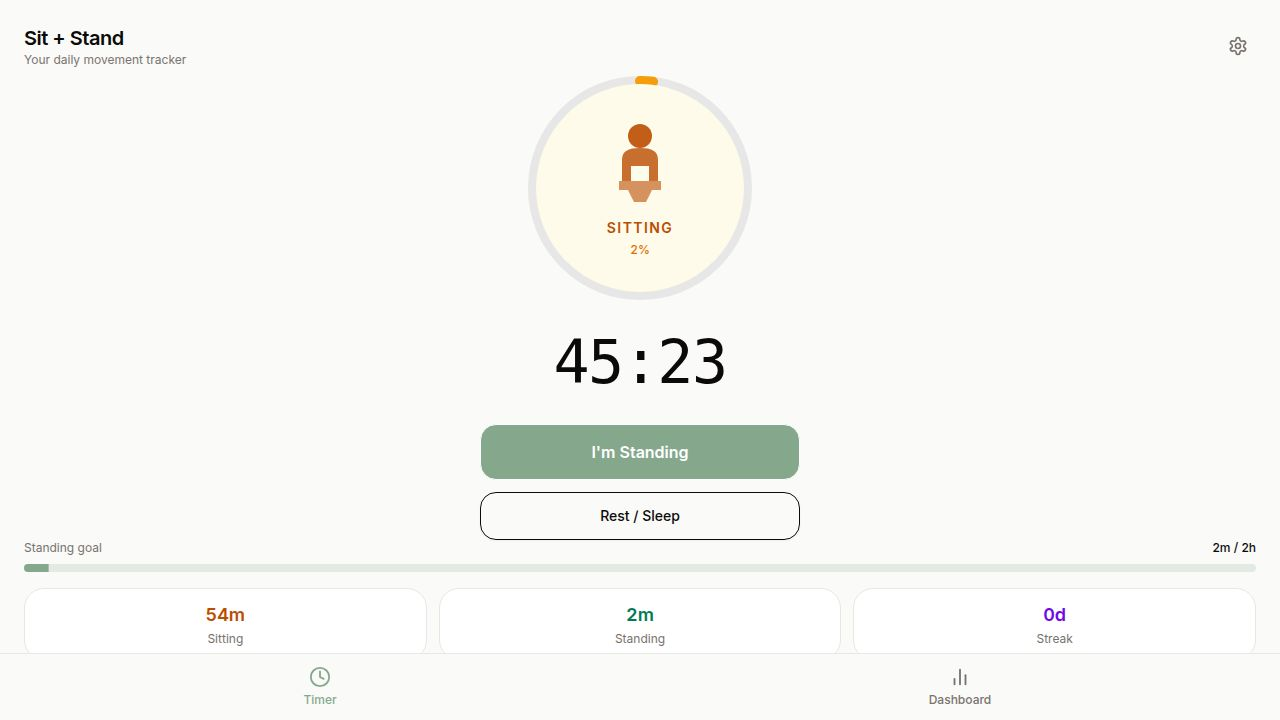
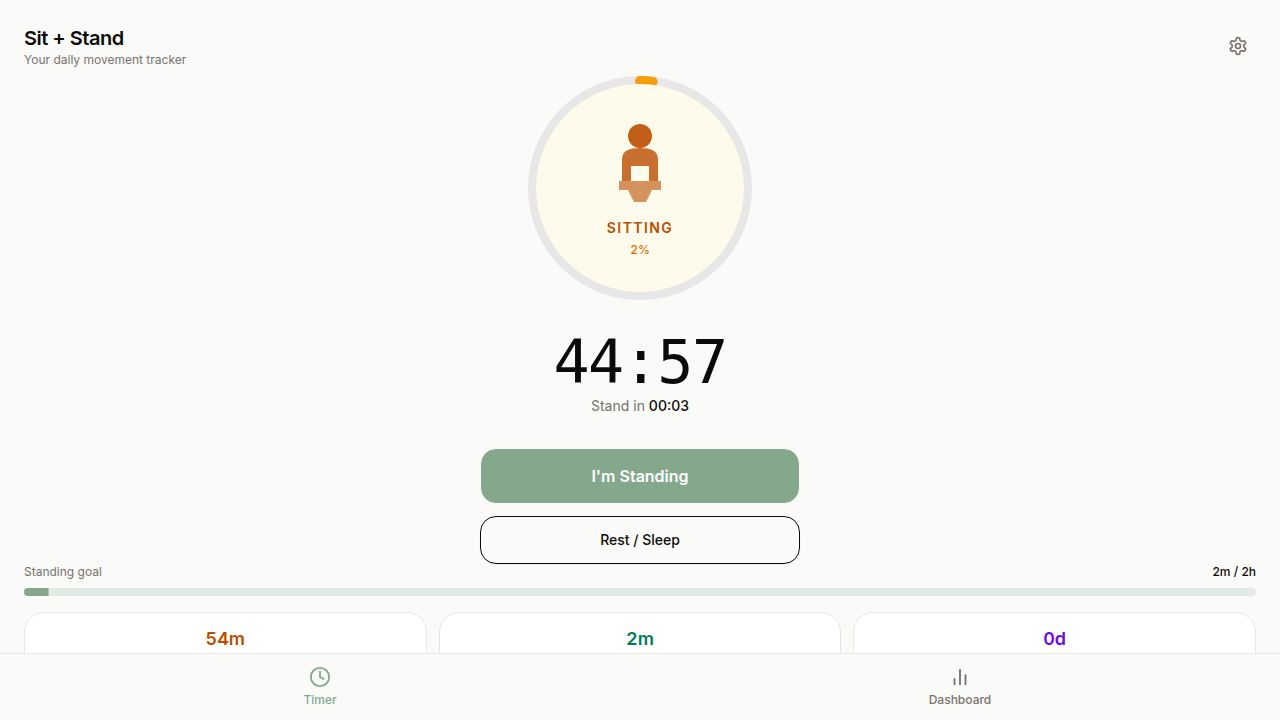
feat: show preview modal before sharing/downloading summary card (task #9)
## Summary
Clicking "Share week" on the Overview dashboard tab now opens a modal
preview of the summary card image before any sharing or downloading occurs.

## Changes
- `artifacts/sit-stand-timer/src/pages/DashboardPage.tsx`
  - Imported Dialog, DialogContent, DialogHeader, DialogTitle, DialogFooter
    from the existing @user/react-dialog based UI component
  - Split the old `handleShare` into two phases:
    1. `handleOpenPreview`: captures the offscreen ShareCard via html2canvas,
       stores the resulting Blob + object URL in state, and opens the modal
    2. `handleShare`: proceeds with native share (Web Share API) or fallback
       download using the already-captured Blob, then closes the modal
  - Added state: `previewing`, `previewOpen`, `previewImgUrl`, `previewBlob`
  - Added `handleClosePreview` to revoke the object URL and reset state
  - "Share week" button now calls `handleOpenPreview`; its label shows
    "Generating…" while the canvas capture is in progress
  - Preview Dialog renders the captured card as an <img> (correct aspect
    ratio, max-height 65vh for mobile readability)
  - Dialog footer has Cancel and Share/Download buttons; Share/Download
    label adapts based on Web Share API availability

## Testing
Automated Playwright e2e test confirmed:
- "Share week" opens the modal with title "Summary card preview"
- Preview image is visible inside the modal
- Cancel and Download buttons are present
[…]

Changed region(s): [[0.0, 0.7333, 1.0, 0.9167], [0.375, 0.4583, 0.625, 0.7639]]

diff --git a/artifacts/sit-stand-timer/src/pages/DashboardPage.tsx b/artifacts/sit-stand-timer/src/pages/DashboardPage.tsx
@@ -19,6 +19,13 @@ import {
 } from "@workspace/api-client-react";
 import { Skeleton } from "@/components/ui/skeleton";
 import { Button } from "@/components/ui/button";
+import {
+  Dialog,
+  DialogContent,
+  DialogHeader,
+  DialogTitle,
+  DialogFooter,
+} from "@/components/ui/dialog";
 import { useToast } from "@/hooks/use-toast";
 import html2canvas from "html2canvas";
 
@@ -292,7 +299,11 @@ function ShareCard({
 // ─── Overview tab ───────────────────────────────────────────────────────────
 function OverviewTab() {
   const { data: summary, isLoading: sumLoading } = useGetMetricsSummary();
+  const [previewing, setPreviewing] = useState(false);
   const [sharing, setSharing] = useState(false);
+  const [previewImgUrl, setPreviewImgUrl] = useState<string | null>(null);
+  const [previewBlob, setPreviewBlob] = useState<Blob | null>(null);
+  const [previewOpen, setPreviewOpen] = useState(false);
   const cardRef = useRef<HTMLDivElement>(null);
   const { toast } = useToast();
 
@@ -302,9 +313,9 @@ function OverviewTab() {
     { from: weekStart, to: weekEnd },
   );
 
-  const handleShare = useCallback(async () => {
+  const handleOpenPreview = useCallback(async () => {
     if (!cardRef.current) return;
-    setSharing(true);
+    setPreviewing(true);
     try {
       const canvas = await html2canvas(cardRef.current, {
         backgroundColor: null,
@@ -318,8 +329,35 @@ function OverviewTab() {
           else reject(new Error("Failed to create blob"));
         }, "image/png");
       });
+      const url = URL.createObjectURL(blob);
+      setPreviewBlob(blob);
+      setPreviewImgUrl(url);
+      setPreviewOpen(true);
+    } catch {
+      toast({
+        title: "Could not generate preview",
+        description: "Please try again.",
+        variant: "destructive",
+      });
+    } finally {
+      setPreviewing(false);
+    }
+  }, [toast]);
 
-      const file = new File([blob], "weekly-summary.png", { type: "image/png" });
+  const handleClosePreview = useCallback(() => {
+    setPreviewOpen(false);
+    if (previewImgUrl) {
+      URL.revokeObjectURL(previewImgUrl);
+      setPreviewImgUrl(null);
+    }
+    setPreviewBlob(null);
+  }, [previewImgUrl]);
+
+  const handleShare = useCallback(async () => {
+    if (!previewBlob) return;
+    setSharing(true);
+    try {
+      const file = new File([previewBlob], "weekly-summary.png", { type: "image/png" });
       const canFileShare =
         typeof navigator.share === "function" &&
         typeof navigator.canShare === "function" &&
@@ -331,17 +369,18 @@ function OverviewTab() {
           files: [file],
         });
       } else {
-        const url = URL.createObjectURL(blob);
+        const url = URL.createObjectURL(previewBlob);
         const a = document.createElement("a");
         a.href = url;
         a.download = "weekly-summary.png";
         a.click();
         setTimeout(() => URL.revokeObjectURL(url), 60_000);
       }
+      handleClosePreview();
     } catch (err) {
       if (err instanceof Error && err.name !== "AbortError") {
         toast({
-          title: "Could not generate image",
+          title: "Could not share image",
           description: "Please try again.",
           variant: "destructive",
         });
@@ -349,7 +388,7 @@ function OverviewTab() {
     } finally {
       setSharing(false);
     }
-  }, [toast]);
+  }, [previewBlob, handleClosePreview, toast]);
 
   if (sumLoading || weekLoading) {
     return (
@@ -371,8 +410,8 @@ function OverviewTab() {
       <div className="flex items-center justify-between">
         <h2 className="text-sm font-semibold text-foreground">Overview</h2>
         {summary && weeklyData && (
-          <Button size="sm" onClick={handleShare} disabled={sharing}>
-            {sharing ? "Generating…" : "Share week"}
+          <Button size="sm" onClick={handleOpenPreview} disabled={previewing}>
+            {previewing ? "Generating…" : "Share week"}
           </Button>
         )}
       </div>
@@ -457,6 +496,32 @@ function OverviewTab() {
           weekEnd={weekEnd}
         />
       )}
+
+      <Dialog open={previewOpen} onOpenChange={(open) => { if (!open) handleClosePreview(); }}>
+        <DialogContent className="max-w-sm w-full p-4">
+          <DialogHeader>
+            <DialogTitle className="text-base">Summary card preview</DialogTitle>
+          </DialogHeader>
+          <div className="flex justify-center py-2">
+            {previewImgUrl && (
+              <img
+                src={previewImgUrl}
+                alt="Weekly summary card preview"
+                className="rounded-2xl w-full object-contain"
+                style={{ maxHeight: "65vh" }}
+              />
+            )}
+          </div>
+          <DialogFooter className="flex flex-row gap-2 sm:flex-row">
+            <Button variant="outline" className="flex-1" onClick={handleClosePreview} disabled={sharing}>
+              Cancel
+            </Button>
+            <Button className="flex-1" onClick={handleShare} disabled={sharing}>
+              {sharing ? "Sharing…" : typeof navigator.share === "function" ? "Share" : "Download"}
+            </Button>
+          </DialogFooter>
+        </DialogContent>
+      </Dialog>
     </div>
   );
 }